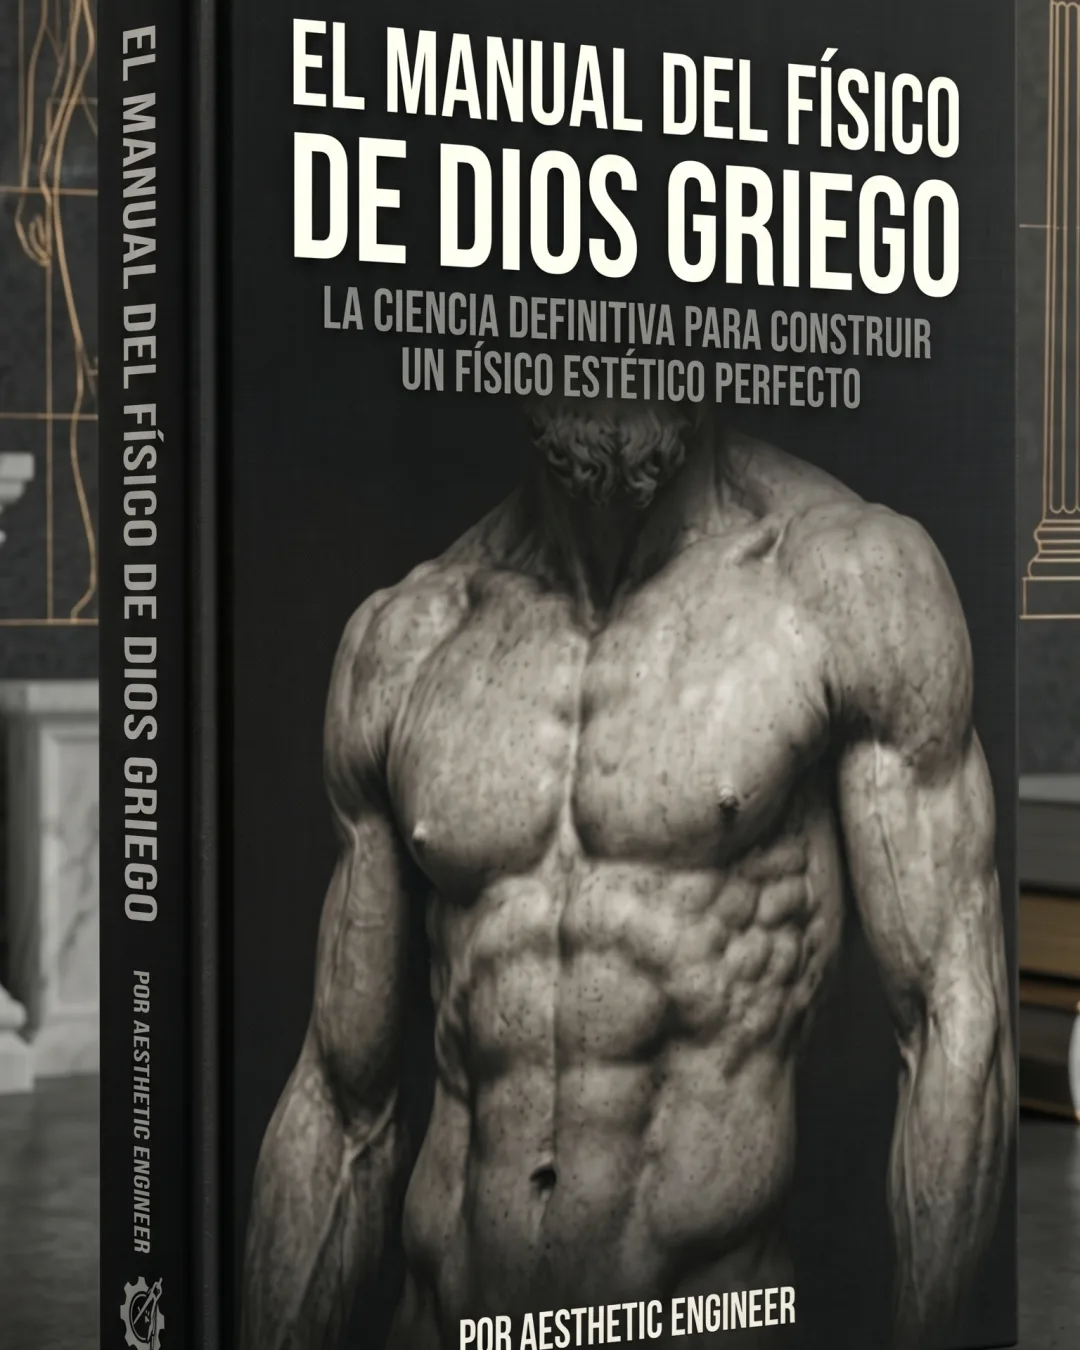
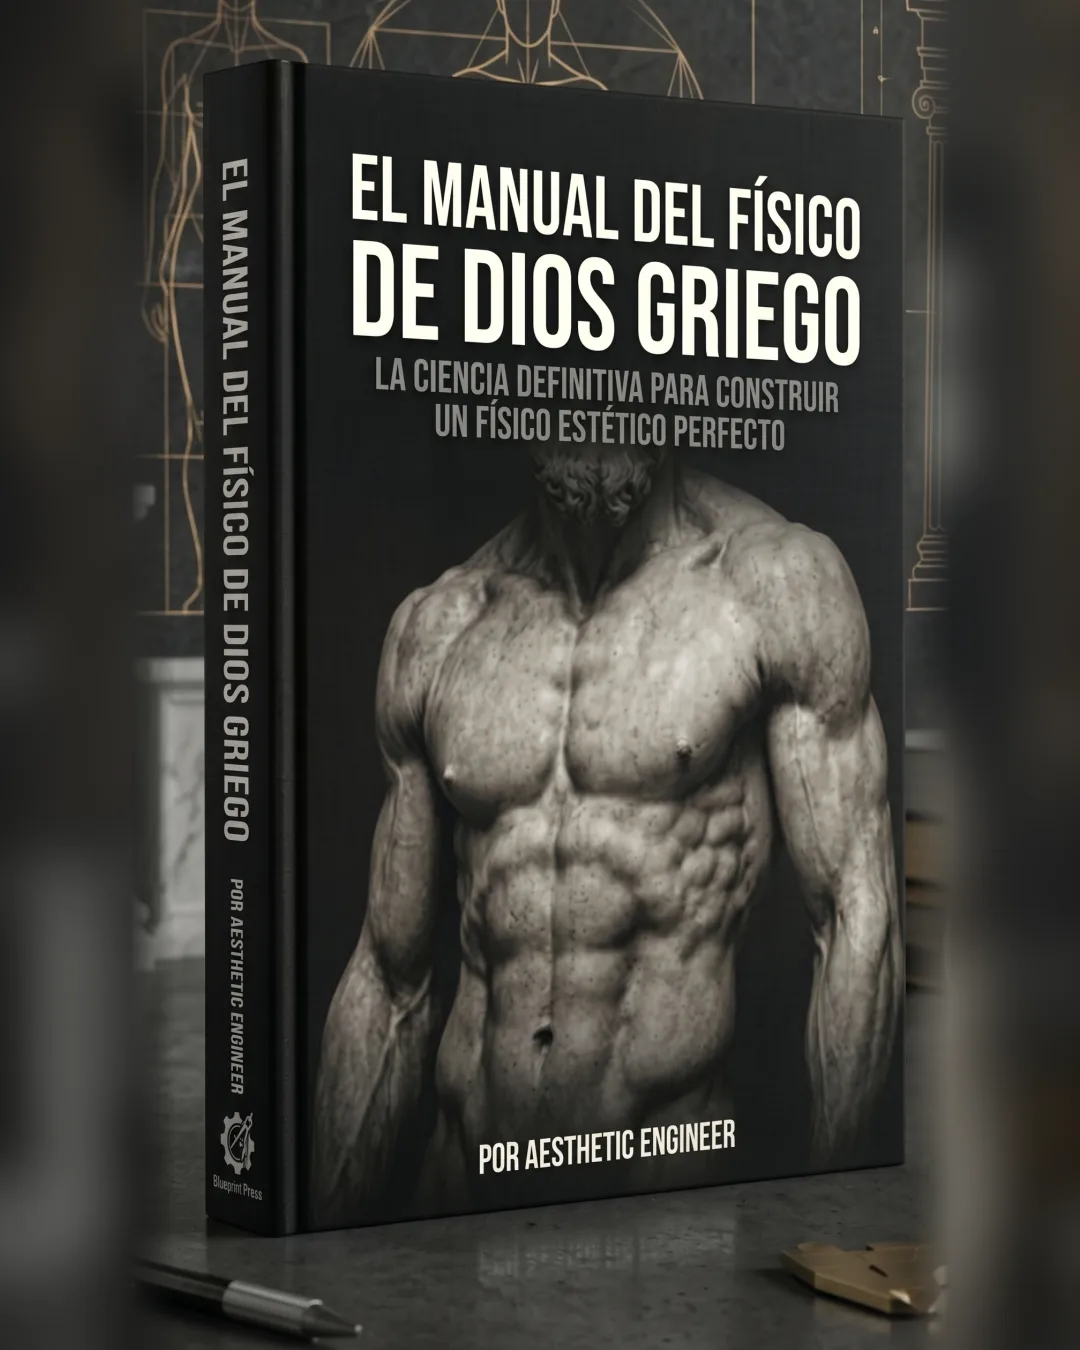
Show the whole book in the Spanish carousel mockup
The Spanish source is 9:16 with the book filling its width, so the 4:5 crop zoomed into
the cover. Now the photo sits centred at full height with the sides extended by a blurred
copy of the scene, matching the English framing. README: the host is a Cloudflare Worker.

diff --git a/es/index.html b/es/index.html
@@ -34,7 +34,7 @@
 
   <link rel="preload" href="/assets/fonts/playfair-700.woff2" as="font" type="font/woff2" crossorigin />
   <link rel="preload" href="/assets/fonts/inter-400.woff2" as="font" type="font/woff2" crossorigin />
-  <link rel="preload" as="image" href="/assets/carousel/mockup-es.webp" imagesrcset="/assets/carousel/mockup-es-720.webp 720w, /assets/carousel/mockup-es.webp 1080w" imagesizes="(min-width: 1024px) 540px, (min-width: 480px) 448px, calc(100vw - 32px)" fetchpriority="high" />
+  <link rel="preload" as="image" href="/assets/carousel/mockup-es.webp?v=2" imagesrcset="/assets/carousel/mockup-es-720.webp?v=2 720w, /assets/carousel/mockup-es.webp?v=2 1080w" imagesizes="(min-width: 1024px) 540px, (min-width: 480px) 448px, calc(100vw - 32px)" fetchpriority="high" />
 
   <link rel="prefetch" href="/es/go/blueprint/" as="document" />
   <link rel="preconnect" href="https://pay.hotmart.com" crossorigin />
@@ -213,7 +213,7 @@
       <div class="min-w-0 lg:sticky lg:top-6 w-full max-w-md mx-auto lg:max-w-none">
         <div class="relative" role="region" aria-roledescription="carousel" aria-label="Vista previa del producto">
       <div class="carousel rounded-3xl border border-line bg-card" data-carousel tabindex="0">
-        <div class="slide-c" role="group" aria-roledescription="slide" aria-label="1 de 7"><img src="/assets/carousel/mockup-es.webp" srcset="/assets/carousel/mockup-es-720.webp 720w, /assets/carousel/mockup-es.webp 1080w" sizes="(min-width: 1024px) 540px, (min-width: 480px) 448px, calc(100vw - 32px)" alt="El Manual del Físico de Dios Griego, portada de la guía en PDF" width="1080" height="1350"
+        <div class="slide-c" role="group" aria-roledescription="slide" aria-label="1 de 7"><img src="/assets/carousel/mockup-es.webp?v=2" srcset="/assets/carousel/mockup-es-720.webp?v=2 720w, /assets/carousel/mockup-es.webp?v=2 1080w" sizes="(min-width: 1024px) 540px, (min-width: 480px) 448px, calc(100vw - 32px)" alt="El Manual del Físico de Dios Griego, portada de la guía en PDF" width="1080" height="1350"
         fetchpriority="high" decoding="async" class="absolute inset-0 w-full h-full object-cover" /></div>
         <div class="slide-c" role="group" aria-roledescription="slide" aria-label="2 de 7"><div class="absolute inset-0 p-3 sm:p-4 flex flex-col">
         <p class="text-center text-[11px] sm:text-xs font-semibold tracking-widest uppercase text-muted">El autor, el primero en aplicar el sistema</p>

diff --git a/assets/README.md b/assets/README.md
@@ -11,7 +11,7 @@ The page references small WebP derivatives, not the original photos:
 | `og-image.jpeg` | `originals/og-image.jpeg` | fixed 1200×630, the Open Graph card size |
 | `before-1.webp` / `before-2.webp` / `before-3.webp` | `originals/before 1.jpeg` / `before 2.jpeg` / `before 3.jpeg` | 356px CSS (max, tablet width) × 2 → 720px wide |
 | `after-1.webp` / `after-2.webp` / `after-3.webp` | `originals/after 1.JPG` / `after 2.png` / `after 3.png` | same as above → 720×960 (3:4, the slideshow frame), referenced as `?v=2` |
-| `carousel/mockup-en.webp`, `carousel/mockup-es.webp` (1080x1350) and `-720` versions | `aesthetic blueprint mockup.png`, `originals/aesthetic-blueprint-mockup-es.jpeg`, cropped to 4:5 | hero carousel slide 1, served with `srcset` (720w / 1080w) |
+| `carousel/mockup-en.webp`, `carousel/mockup-es.webp` (1080x1350) and `-720` versions | `aesthetic blueprint mockup.png` cropped to 4:5; `originals/aesthetic-blueprint-mockup-es.jpeg` | hero carousel slide 1, served with `srcset` (720w / 1080w). The Spanish source is 9:16 with the book filling its width, so a plain 4:5 crop zooms into the cover: instead the photo (y 180-2700) sits centred at full height and the sides are a blurred, darkened copy of the same scene feathered into it. Referenced as `?v=2` |
 | `carousel/author-{before,after}-540.webp` (540x1333) and `-360` (360x889) | `originals/before 2.jpeg` crop 277,357 651x1608; `originals/after 2.png` crop 221,440 536x1324 | the author slide in the hero carousel. Each photo sits in a tall frame (~0.40 wide-to-high, up to 540x1335 device px on a 3x phone), so the crop already matches that shape and nothing gets upscaled. Served with `srcset` (360w / 540w) |
 | `evidence/samuel-{before,after}.webp` (front) and `-2` (back), 3:4 | `src/content/evidence/originals/samuel-*.jpeg` (not in git) | Samuel's card in Results, two photos per side in the paired slideshow. Crops (x, y, w, h in original px): before 0,320,656,875 · after 61,496,528,704 · before-2 112,538,398,531 (excludes his head in the foreground) · after-2 66,608,504,672 (excludes the person at the left edge and the screenshot UI). Light and colour untouched on purpose. |
 | `evidence/samuel-{before,after}-tall.webp` and `-360` | same originals | the last hero carousel slide (tall frame, ~0.405). Crops: before 135,0,518,1280 · after 87,136,476,1176 (drops the black letterbox bars) |

diff --git a/README.md b/README.md
@@ -1,9 +1,12 @@
 # Aesthetic Engineer landing page
 
 Static site. The pages are generated from `src/` by `build.mjs` (no npm dependencies), and the
-generated files are committed, so the deploy is still "push the files as they are": Cloudflare
-Pages serves `index.html`, `es/index.html`, `ig.html`, `fb.html`, `privacy.html`, `terms.html`,
-the `go/` bridges and `assets/` with no build step on its side.
+generated files are committed, so the deploy is still "push the files as they are": a Cloudflare
+Worker with static assets (Workers Builds, connected to this GitHub repo) serves `index.html`,
+`es/index.html`, `ig.html`, `fb.html`, `privacy.html`, `terms.html`, the `go/` bridges and
+`assets/` with no build step on its side. A push to `main` deploys to aesthetic-engineer.com;
+a push to any other branch makes a preview at
+`https://<branch>-aesthetic-blueprint-landing.mateo-valenciay.workers.dev`.
 
 ```
 node build.mjs           # build everything (pages, ig/fb copies, stylesheet, evidence photos)
